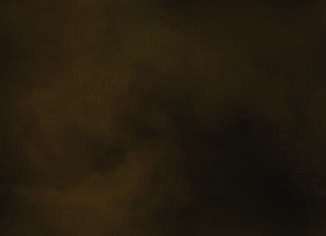
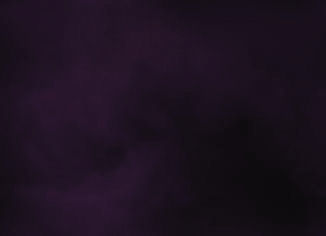
Cataworgen pretty much done

diff --git a/cataworgen/style.css b/cataworgen/style.css
@@ -6,7 +6,7 @@ BODY,.body {	cursor: default;
 		margin: 0;
 		padding: 0;
 		background-color: #000000;
-		color: #8AAEDC;
+		color: #ffe1b9;
 }
 
 
@@ -67,7 +67,7 @@ Table.Subject{
 		font-weight:normal; }
 		
 /* TopStats, is the color of the Statistic itself */
-.StatCount{	color: #8AAEDC;}
+.StatCount{	color: #ffe1b9;}
 
 /* TopStats, is the color of a Statistic designed to get the user's attention */
 .StatAlert{	color: #FFFFFF;}
@@ -112,12 +112,12 @@ td.error,.missing,div.error{
 
 /* used to mark a "new or recently posted" thread. */
 .newlist1,.newl1{
-		background: #102740;
+		background: #33140f;
 		font-weight:bold;
 		font-size: 9pt;}
 
 .newlist2,.newl2{
-		background: #102740;
+		background: #33140f;
 		font-weight:bold;
 		font-size: 9pt;}
 
@@ -137,7 +137,7 @@ td.error,.missing,div.error{
 		color: ;
 		border-style:solid;
 		border-width:1px;
-		border-color:#8AAEDC;}
+		border-color:#ffe1b9;}
 
 
 /* The menu header (Menu, Resources, etc) as well as the Calendar Header, and the current date on the calendar */
@@ -162,7 +162,7 @@ td.error,.missing,div.error{
 .listlabel{
 		font-size: 9pt;
 		font-weight: bold;
-		background: #102740 url(http://dkpfiles.com/dkp-templates/cataworgen/listlabel.gif);
+		background: #33140f url(http://dkpfiles.com/dkp-templates/cataworgen/listlabel.gif);
 		color: #FFFFFF;
 		border-style:solid;
 		border-width:1px;
@@ -188,7 +188,7 @@ td.error,.missing,div.error{
 		padding:5px;
 		border-style:solid;
 		border-width:1px;
-		border-color: #8AAEDC;}
+		border-color: #ffe1b9;}
 		
 /* While rather rarely used, this is the "color picker" popup. Probably shouldn't ever change */
 .cp{		width:10;height:10}
@@ -206,15 +206,15 @@ td.error,.missing,div.error{
 		padding:10px;
 		border-style:solid;
 		border-width:1px;
-		border-color: #8AAEDC;}
+		border-color: #ffe1b9;}
 
 /* used on the [pre] tags in posts and stuff */
 pre{		font-size:11pt;}
 
 
 /* Basic Link Definition */
-A:visited	{color: #BACFEA;}
-A:link		{color: #BACFEA;}
+A:visited	{color: #ffab35;}
+A:link		{color: #ffab35;}
 A:active	{color: #FFFFFF;}
 A:hover		{color: #FFFFFF;}
 
@@ -225,8 +225,8 @@ A.inred:active	{color:#444444;}
 A.inred:hover	{color:#444444;}
 
 /* used in on most pages as the buttom class */
-input.button{	background: #102740;
-		color: #8AAEDC;}
+input.button{	background: #33140f;
+		color: #ffe1b9;}
 
 /* used in the default layout as any list items */
 li{	
@@ -505,7 +505,7 @@ ul.tabrow{margin-left:10px;}
 ul.tabrow li{list-style-image:none;float:left;margin-right: 3px;text-align:center;font-size:inherit}
 ul.tabrow a{float:left;width:8em;padding: 5px 0;background-color:#000000}
 ul.tabrow a:hover {background-color:#262626;}
-ul.tabrow li.selected a,ul.tabrow li.selected a:hover {background:#102740 url(http://dkpfiles.com/dkp-templates/cataworgen/listlabel.gif)}
+ul.tabrow li.selected a,ul.tabrow li.selected a:hover {background:#33140f url(http://dkpfiles.com/dkp-templates/cataworgen/listlabel.gif)}
 
 
 /* The next rules (all preceded with bigcal) are for the "Big Calendar" (bigcalendar.php) */
@@ -514,13 +514,13 @@ ul.tabrow li.selected a,ul.tabrow li.selected a:hover {background:#102740 url(ht
 .bigcal {width:100%;border-style:inset;border-width:1px;}
 
 /* This is the header of the calendar, displaying the month and year, and the links to the next months */
-.bigcalheader{font-size:16pt;font-weight:bold;background: #102740 url(http://dkpfiles.com/dkp-templates/cataworgen/listlabel.gif);color:#FFFFFF}
+.bigcalheader{font-size:16pt;font-weight:bold;background: #33140f url(http://dkpfiles.com/dkp-templates/cataworgen/listlabel.gif);color:#FFFFFF}
 
 /* Day Labels "Sunday" "Monday" etc */
-.bigcaldayheader{font-size:10pt;font-weight:bold;background: #102740 url(http://dkpfiles.com/dkp-templates/cataworgen/listlabel.gif);color:#FFFFFF}
+.bigcaldayheader{font-size:10pt;font-weight:bold;background: #33140f url(http://dkpfiles.com/dkp-templates/cataworgen/listlabel.gif);color:#FFFFFF}
 
 /* This is the class for each day */
-.bigcalday {width:14%;border-style:solid;border-width:1px;height:100px;background: #271f1d;border-color:#BACFEA}
+.bigcalday {width:14%;border-style:solid;border-width:1px;height:100px;background: #271f1d;border-color:#ffab35}
 
 /* This is a class that is displayed on event labels (8:00pm - Gruul's Lair) */
 .bigcallabel{font-size:8pt;cursor:pointer}
@@ -538,7 +538,7 @@ ul.tabrow li.selected a,ul.tabrow li.selected a:hover {background:#102740 url(ht
 .bigcalsomething{}
 
 /* This is going to be the Arrows to the right and left */
-.bigcalheader a{color:#BACFEA}
+.bigcalheader a{color:#ffab35}
 
 /* This is the div that gets clicked to add a new item.  The default image is a plus.  The Overflow:hidden is because IE, for whatever reason, wants to make it higher than the height attribute */
 .bigcalplus{	
